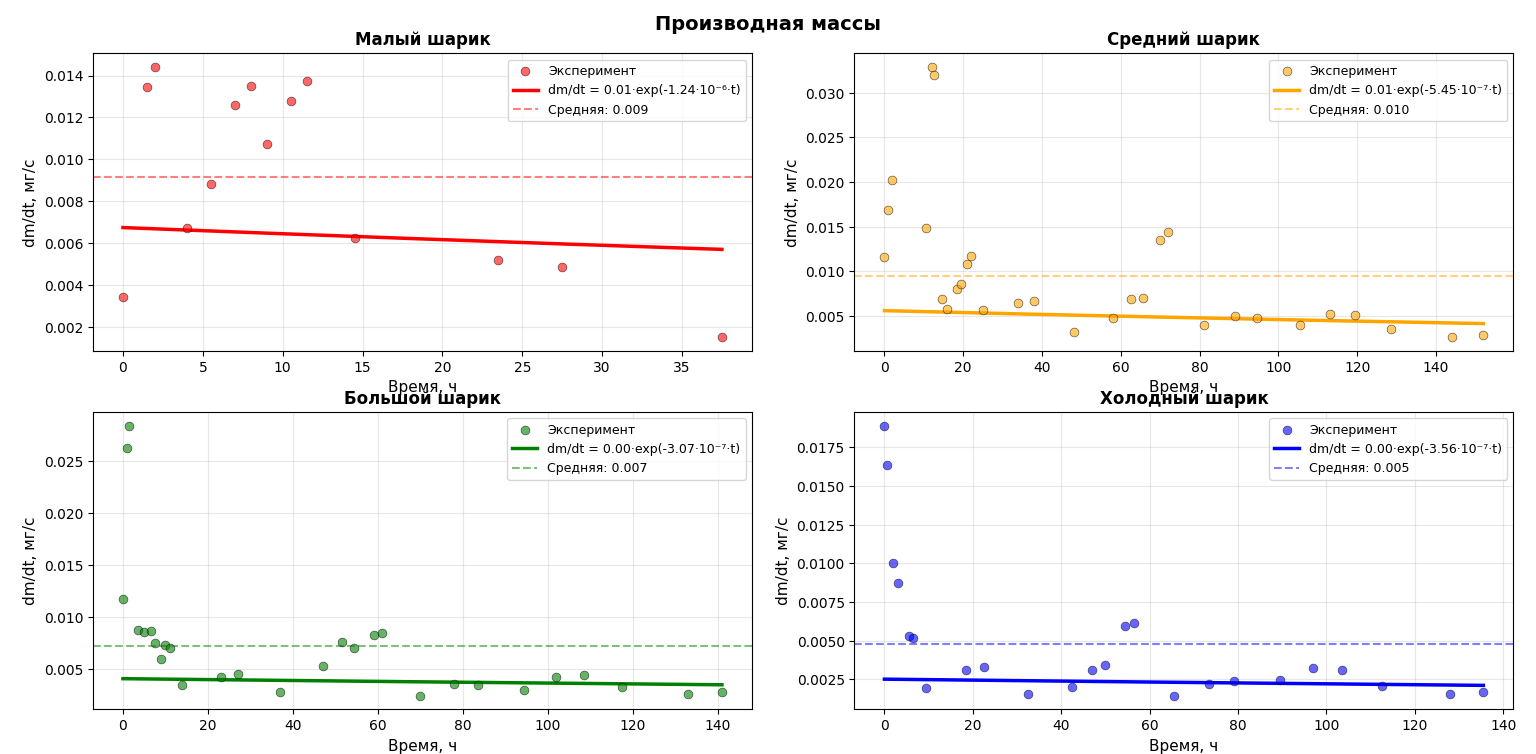
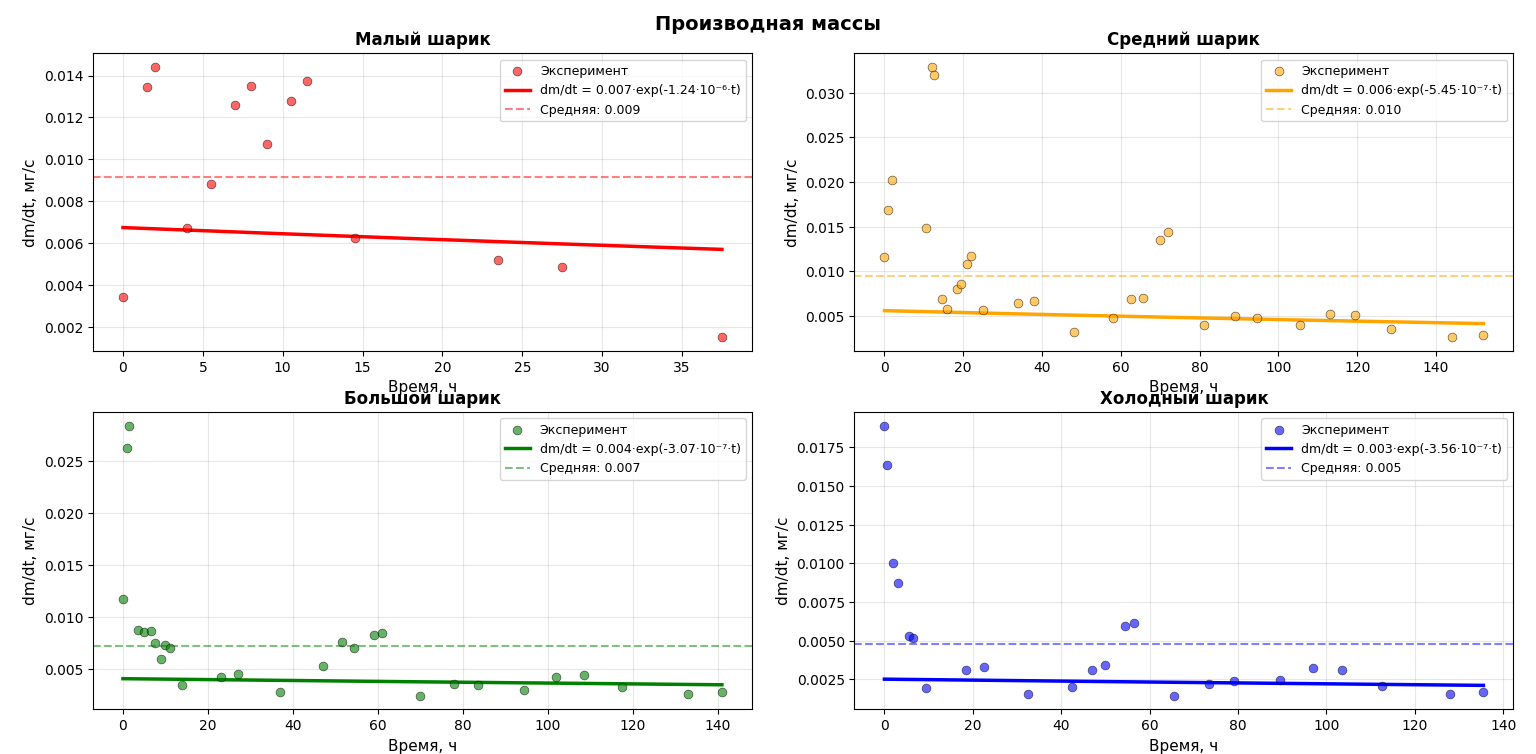
презентация выросла до 41 слайда

diff --git a/ass_2.py b/ass_2.py
@@ -193,7 +193,7 @@ for i, (mass, time_s, time_ch, name, color) in enumerate(zip(data_series, time_s
     t_fit_s = t_fit_ch * 3600
     derivative_analytic = delta_m_0 * k * np.exp(-k * t_fit_s)
     ax.plot(t_fit_ch, derivative_analytic, '-', c=color, linewidth=2.5,
-            label=f'dm/dt = {delta_m_0 * k:.2f}·exp(-{format_k_scientific(k)}·t)')
+            label=f'dm/dt = {delta_m_0 * k:.3f}·exp(-{format_k_scientific(k)}·t)')
 
     avg_derivative = np.mean(derivative_exp)
     ax.axhline(y=avg_derivative, color=color, linestyle='--', linewidth=1.5, alpha=0.5,
@@ -286,7 +286,7 @@ for name, color in zip(names, colors):
     t_fit_s = t_fit_ch * 3600
     derivative = delta_m_0 * k * np.exp(-k * t_fit_s)
     ax5.plot(t_fit_ch, derivative, '-', c=color, linewidth=2.5,
-             label=f'{name}: {delta_m_0 * k:.2f}·exp(-{format_k_scientific(k)}·t)', alpha=0.8)
+             label=f'{name}: {delta_m_0 * k:.3f}·exp(-{format_k_scientific(k)}·t)', alpha=0.8)
 
 ax5.set_xlabel('Время, ч', fontsize=12)
 ax5.set_ylabel('dm/dt, мг/с', fontsize=12)